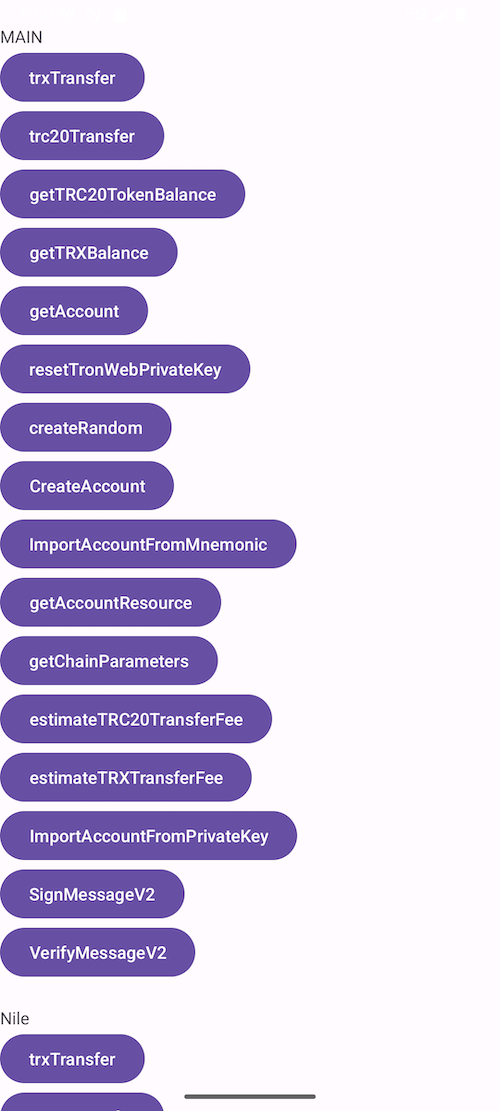
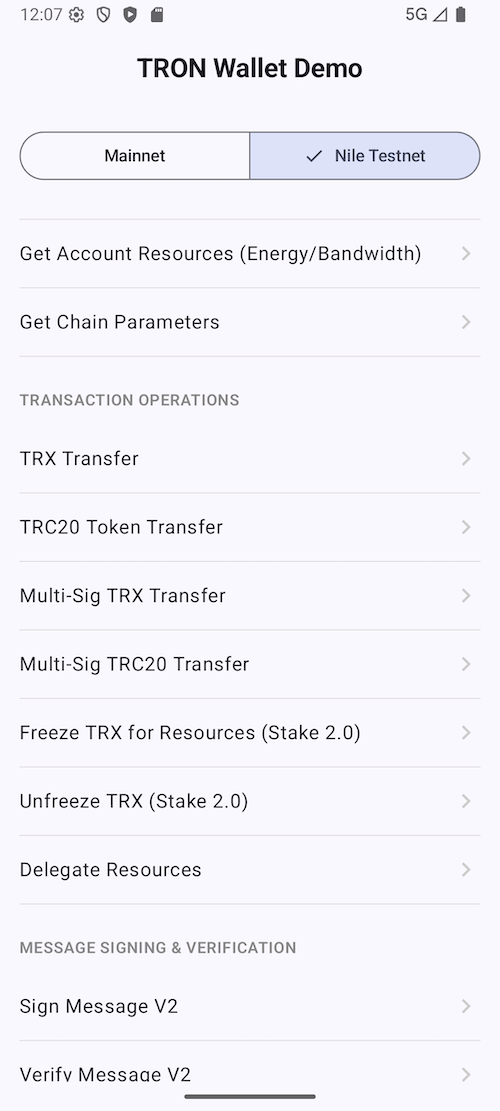
edit readme

diff --git a/README.md b/README.md
@@ -17,191 +17,220 @@ repositories {
     maven { url 'https://jitpack.io' }
 }
 dependencies {
-    implementation 'com.github.james19870606:TronWallet:1.1.2'
+    implementation 'com.github.james19870606:TronWallet:1.1.3'
 }
 ```
+# TronWeb Android SDK Usage Guide
 
-##### Setup TronWeb 
+This guide provides example code for integrating the TronWeb Android SDK into your Kotlin-based Android applications. The SDK supports both callback-based and Coroutine-based asynchronous operations.
+
+## 1. Setup & Initialization
+
+First, initialize the `TronWeb` instance with a network node and an optional API key.
+
 ```kotlin
-val onCompleted = {result : Boolean,error : String ->
-   //......
-}
-val privateKey = ""
+val tronWeb = TronWeb(context)
 
-val node = if(position == 0) TRONMainNet else TRONNileNet
-
-if (tronweb?.isGenerateTronWebInstanceSuccess == false) {
-
-  tronweb?.setup(true, privateKey, node = node,onCompleted = onCompleted)
-
-} else  {
-
-}
-```
-##### Create Random
-```Kotlin
-val onCompleted = {state: Boolean, address: String, privateKey: String, publicKey: String, mnemonic: String, error: String ->
-       runOnUiThread {
-        val text = """
-            address: $address
-
-            mnemonic: $mnemonic
-
-            privateKey: $privateKey
-
-            publicKey: $publicKey
-        """
-        walletDetail?.setText(if (state) text else error)
-    }    
-  }
-tronweb?.createRandom(onCompleted = onCompleted)
-```
-
-##### Create Account
-```Kotlin
-val onCompleted = { state: Boolean, hexAddress: String, base58Address: String, privateKey: String, publicKey: String, error: String ->
-  runOnUiThread {
-            val text = """
-                hexAddress: $hexAddress
+// Asynchronous setup using Coroutines
+lifecycleScope.launch {
+    val (success, error) = tronWeb.setupAsync(
+        node = TronWeb.TRON_NILE_NET, // Or TronWeb.TRON_MAINNET
+        apiKey = "your-api-key"
+    )
     
-                base58Address: $base58Address
-    
-                privateKey: $privateKey
-    
-                publicKey: $publicKey
-            """
-            walletDetail?.setText(if (state) text else error)
-     }
-}
-tronweb?.createAccount(onCompleted = onCompleted)
-```
-##### Import Account From Mnemonic
-```Kotlin
-val mnemonic = mnemonicEditText?.getText().toString();
-val onCompleted = { state: Boolean, address: String, privateKey: String, publicKey: String, error: String ->
-     runOnUiThread {
-            val text = """
-                address: $address
-    
-                privateKey: $privateKey
-    
-                publicKey: $publicKey
-            """
-            walletDetail?.setText(if (state) text else error)
-        }
-}
-tronweb?.importAccountFromMnemonic(mnemonic, onCompleted = onCompleted)
-```
-##### Import Account From PrivateKey
-```Kotlin
-val privateKey = privateKeyEditText?.getText().toString();
-val onCompleted = { state: Boolean,base58: String, hex: String, error: String ->
-    runOnUiThread {
-    val text = """
-        base58: $base58
-
-        hex: $hex
-    """
-    walletDetail?.setText(if (state) text else error)
-}
-}
-tronweb?.importAccountFromPrivateKey(privateKey, onCompleted = onCompleted)
-```
-##### Send TRX
-```Kotlin
-val onCompleted = {state : Boolean, txid: String ,error:String->
-    this.runOnUiThread {
-        if (state){
-            hashValue?.text = txid
-        } else {
-            hashValue?.text = error
-        }
+    if (success) {
+        Log.d("TronWeb", "Initialization successful")
+    } else {
+        Log.e("TronWeb", "Initialization failed: $error")
     }
 }
-tronweb?.trxTransferWithOutRemark(
-    toAddress ,
-    amount ,
-    onCompleted = onCompleted)
+```
 
-```
-##### Send TRC20
-```Kotlin
-val onCompleted = {state : Boolean, txid: String,error:String ->
-    this.runOnUiThread {
-        if (state){
-            hashValue?.text = txid
-        } else {
-            hashValue?.text = error
-        }
-    }
-}
-tronweb?.trc20TokenTransfer(
-    toAddress,
-    trc20ContractAddress,
-    amount,
-    remark,
-    onCompleted = onCompleted)
-```
-##### Fee Estimate When Send TRX
-```Kotlin
-val toAddress = receiveEditText?.text.toString()
-val amount = amountEditText?.text.toString()
-val note = "Test data"
-val onCompleted = {state : Boolean, sendAccountResources:LinkedTreeMap<String, Any>,feeDic:LinkedTreeMap<String, Any>,error:String ->
-    this.runOnUiThread {
-        if (state){
-            val activationFee = feeDic["activationFee"] as Double
-            val noteFee = feeDic["noteFee"] as Double
-            val requiredBandwidth = feeDic["requiredBandwidth"] as Double
-            val totalFee = activationFee + noteFee + requiredBandwidth / 1000
-            hashValue?.text =
-                "Resource Consumed  ${requiredBandwidth.toInt()} Bandwidth  \nFee    $totalFee TRX"
+## 2. Wallet Management
 
-        } else {
-            hashValue?.text = error
-        }
+### Create Random Wallet
+```kotlin
+val response = tronWeb.createRandomAsync(wordCount = 12, language = "english")
+// Returns mnemonic, privateKey, publicKey, address
+```
+
+### Import Account from Mnemonic
+```kotlin
+val mnemonic = "word1 word2 ..."
+val response = tronWeb.importAccountFromMnemonicAsync(mnemonic)
+```
+
+### Import Account from Private Key
+```kotlin
+val privateKey = "your-private-key"
+val response = tronWeb.importAccountFromPrivateKeyAsync(privateKey)
+```
+
+### Create Multi-Sig Address
+```kotlin
+val owners = listOf("Address1", "Address2")
+val response = tronWeb.createMultiSigAddressAsync(
+    ownerAddress = "YourAddress",
+    owners = owners,
+    required = 2,
+    privateKey = "YourPrivateKey"
+)
+```
+
+## 3. Account Query
+
+### Get Account Details
+```kotlin
+val response = tronWeb.getAccountAsync("Address")
+// Returns full account info from blockchain
+```
+
+### Get TRX Balance
+```kotlin
+val response = tronWeb.getTRXBalanceAsync("Address")
+// response["balance"] contains TRX amount
+```
+
+### Get TRC20 Token Balance
+```kotlin
+val response = tronWeb.getTRC20TokenBalanceAsync(
+    contractAddress = "TR7NHqjeKQxGChDe8n9u6616v4ALny7nv8", // USDT
+    address = "TargetAddress"
+)
+```
+
+### Get Account Resources (Energy/Bandwidth)
+```kotlin
+val response = tronWeb.getAccountResourcesAsync("Address")
+```
+
+### Get Chain Parameters
+```kotlin
+val response = tronWeb.getChainParametersAsync()
+// Returns network parameters like proposal details
+```
+
+## 4. Message Signing & Verification
+
+### Sign Message (TIP-191)
+```kotlin
+val response = tronWeb.signMessageV2Async("Hello TRON", "PrivateKey")
+// Returns signature hex
+```
+
+### Verify Message
+```kotlin
+val response = tronWeb.verifyMessageV2Async(
+    message = "Hello TRON",
+    signature = "SignatureHex",
+    address = "ExpectedAddress"
+)
+// Returns boolean state
+```
+
+## 5. Transaction Operations (Single-Sig)
+
+### TRX Transfer
+```kotlin
+val response = tronWeb.trxTransferAsync(
+    toAddress = "ReceiverAddress",
+    amount = 1.0, // 1 TRX
+    privateKey = "SenderPrivateKey"
+)
+```
+
+### TRC20 Token Transfer
+```kotlin
+val response = tronWeb.trc20TransferAsync(
+    contractAddress = "TokenContractAddress",
+    toAddress = "ReceiverAddress",
+    amount = 10.0,
+    privateKey = "SenderPrivateKey"
+)
+```
+
+### Estimate Fees
+```kotlin
+// Estimate TRX Transfer Fee
+val trxFee = tronWeb.estimateTrxFeeAsync("To", 1.0, "From")
+
+// Estimate TRC20 Transfer Fee
+val trc20Fee = tronWeb.estimateTrc20FeeAsync("Contract", "To", 10.0, "From")
+```
+
+## 6. Multi-Sig Operations
+
+### Multi-Sig TRX Transfer
+```kotlin
+val response = tronWeb.multiSigTrxTransferAsync(
+    fromAddress = "MultiSigAddress",
+    toAddress = "ReceiverAddress",
+    amount = 1.0,
+    privateKeys = listOf("Key1", "Key2"), // Enough keys to satisfy weight
+    permissionId = 2 // Usually 2 for Active permission
+)
+```
+
+### Estimate Multi-Sig Fees
+```kotlin
+val fee = tronWeb.estimateMultiSigTrxFeeAsync(
+    fromAddress = "MultiSigAddress",
+    toAddress = "To",
+    amount = 1.0,
+    privateKeysCount = 2
+)
+```
+
+## 7. Resource Staking (Stake 2.0)
+
+### Freeze TRX for Energy/Bandwidth
+```kotlin
+val response = tronWeb.freezeBalanceAsync(
+    amount = 100.0,
+    resourceType = "ENERGY", // or "BANDWIDTH"
+    privateKey = "YourPrivateKey"
+)
+```
+
+### Unfreeze TRX
+```kotlin
+val response = tronWeb.unfreezeBalanceAsync(
+    amount = 100.0,
+    resourceType = "ENERGY",
+    privateKey = "YourPrivateKey"
+)
+```
+
+### Delegate Resource to Another Address
+```kotlin
+val response = tronWeb.delegateResourceAsync(
+    amount = 50.0,
+    resourceType = "ENERGY",
+    receiverAddress = "ReceiverAddress",
+    privateKey = "YourPrivateKey"
+)
+```
+
+---
+
+## Error Handling
+
+All `Async` methods return a `Map<String, Any>?`. You can check the `state` or `error` field in the response:
+
+```kotlin
+val response = tronWeb.getTRXBalanceAsync(address)
+if (response != null) {
+    val state = response["state"] as? Boolean ?: false
+    if (state) {
+        val balance = response["balance"]
+        Log.d("TronWeb", "Balance: $balance")
+    } else {
+        val error = response["error"] as? String ?: "Unknown error"
+        Log.e("TronWeb", "Error: $error")
     }
 }
-tronweb?.estimateTRXTransferFee(toAddress, note, amount, onCompleted)
 ```
-##### Fee Estimate When Send TRC20
-```Kotlin
-val onCompleted = {state : Boolean, energyUsed:Double,energyFee:Double,error:String ->
-    this.runOnUiThread {
-        if (state){
-            val trxFee =  (energyUsed * energyFee) / 1_000_000
-            hashValue?.text =
-                "Resource Consumed  339 Bandwidth $energyUsed Energy\nFee    $trxFee TRX"
-        } else {
-            hashValue?.text = error
-        }
-    }
-}
-val url = if(position == 0) TRONMainNet else TRONNileNet
-tronweb?.getFeeEstimate(
-    url,
-    toAddress,
-    trc20ContractAddress,
-    amount,
-    onCompleted = onCompleted)
-```
-##### signMessageV2
-```Kotlin
-val message = messageEditText?.getText().toString();
-val onCompleted = { state: Boolean, signature: String, error: String ->
-    updateSignDetails(state, signature, error)
-}
-tronWeb?.signMessageV2(message,"", onCompleted = onCompleted
-```
-##### verifyMessageV2
-```Kotlin
-val signature = signatureEditText?.getText().toString();
-val onCompleted = { state: Boolean,base58Address: String,  error: String ->
-    updateVerifyDetails(state, base58Address, error)
-}
-tronWeb?.verifyMessageV2("hello world",signature, onCompleted = onCompleted)
-```
-更详细的使用方法,建议参考 [demo](https://github.com/james19870606/TronWallet/tree/master/app)
+
 
 ## License
 
